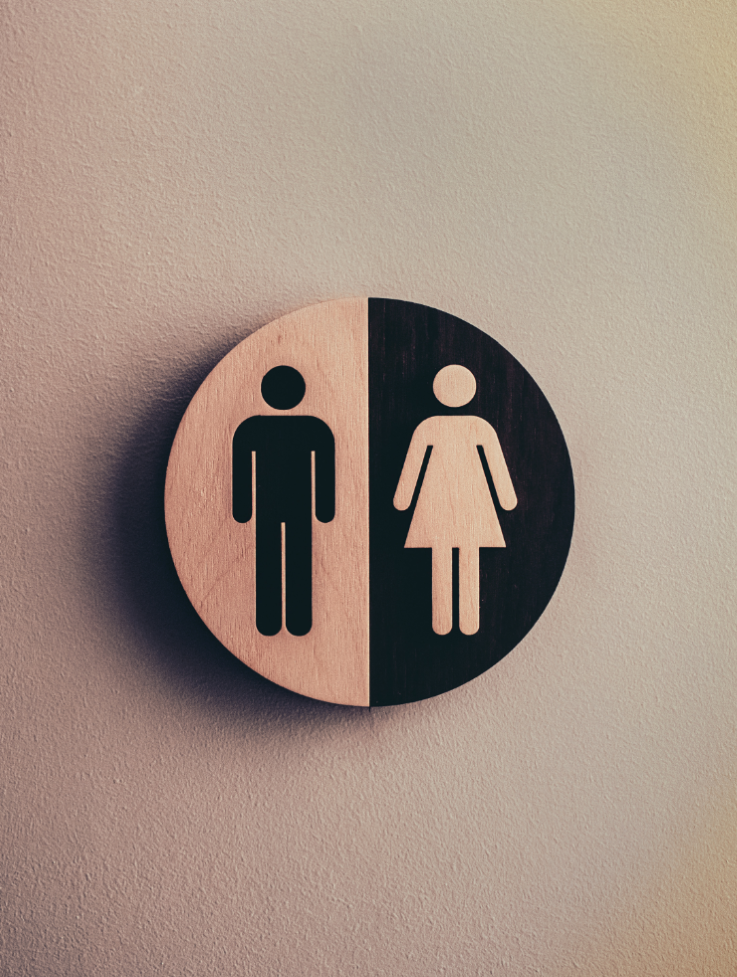
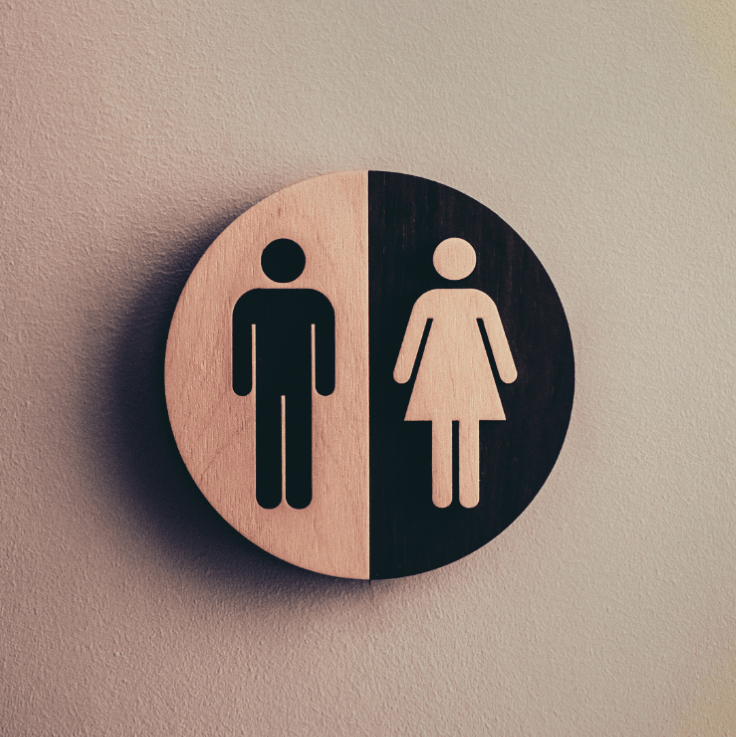
Edited picture size & mobile font-size

diff --git a/public/css/style.css b/public/css/style.css
@@ -236,7 +236,7 @@ input[type='image']:focus {
   background-color: #18191D;
   color: white;
   font-family: Arial, Helvetica, sans-serif;
-  padding: 35px 40px;
+  padding: 35px 50px;
   max-width: 1440px;
   margin: 0 auto; }
 
@@ -250,8 +250,7 @@ input[type='image']:focus {
   width: 124px;
   height: 124px;
   background-color: white;
-  border-radius: 50%;
-  margin-left: 10px; }
+  border-radius: 50%; }
 
 .vida-light input:hover {
   opacity: .8; }
@@ -332,7 +331,8 @@ hr.divider {
 
 .images-highlight {
   background-color: white;
-  overflow: hidden; }
+  overflow: hidden;
+  cursor: pointer; }
 
 .images-highlight img {
   transition: transform .5s ease; }
@@ -402,9 +402,21 @@ hr.underline {
     width: 91.66%; }
   .col-12 {
     width: 100%; } }
+
+@media only screen and (max-width: 768px) {
+  /* For mobile phones: */
+  .options-screen {
+    padding: 1.5rem 1.5rem; }
+  /* Reduce the container width */
+  #date {
+    font-size: 20px;
+    margin-top: 16px; }
+  #time {
+    font-size: 30px; }
+  h2 {
+    font-size: 40px;
+    margin: 16px 0; } }
 .trainingM {
   font-size: 30px; }
-.vida-highlight input:hover {
-  opacity: .5; }
 
[1 lines of base64/hex data omitted]

diff --git a/src/scss/options-screen.scss b/src/scss/options-screen.scss
@@ -14,7 +14,7 @@ input[type='image']:focus{
     background-color: #18191D; 
     color: white;
     font-family: Arial, Helvetica, sans-serif;
-    padding: 35px 40px ;
+    padding: 35px 50px ;
     max-width: 1440px;
     margin: 0 auto;
 }
@@ -34,7 +34,7 @@ input[type='image']:focus{
     height:124px;
     background-color:white;
     border-radius: 50%;
-    margin-left: 10px;
+    // margin-left: 10px;
 }
 
 .vida-light input:hover{
@@ -136,6 +136,7 @@ hr.divider {
   .images-highlight {
       background-color: white;
       overflow: hidden;
+      cursor: pointer;
   }
 
 .images-highlight img{
@@ -203,4 +204,12 @@ hr.divider {
     .col-10 {width: 83.33%;}
     .col-11 {width: 91.66%;}
     .col-12 {width: 100%;}
+  }
+
+  @media only screen and (max-width: 768px) {
+    /* For mobile phones: */
+    .options-screen { padding: 1.5rem 1.5rem; } /* Reduce the container width */
+    #date {font-size: 20px; margin-top: 16px;} 
+    #time { font-size: 30px;}
+    h2 { font-size: 40px; margin: 16px 0;}
   }
